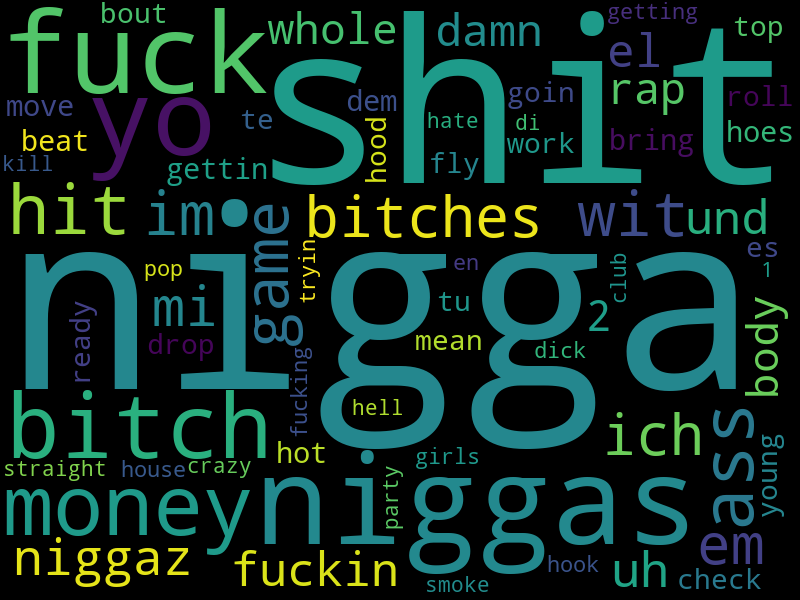
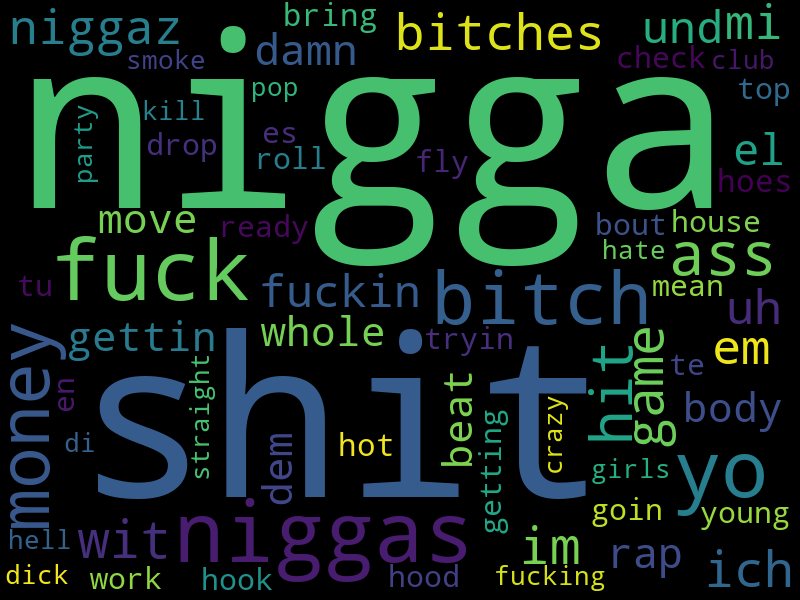
:snail: modification of wordclouds and freq analysis function to check for alphabetical instead of alphanumeric

diff --git a/src/freq_main.py b/src/freq_main.py
@@ -7,8 +7,8 @@
 
 # imports and data structures
 import os
-from freq.freqAnalysis import freqAnalyzer as fa
-from freq.freqAnalysis import freqVisual as fv
+from freq.freqAnalysis import freqAnalyzer
+from freq.freqAnalysis import freqVisual
 from db import database
 
 # initiliaze db in repo
@@ -33,7 +33,7 @@ for i in genres:
 ####################################################################
 
 # this process will tokenize lyrics and save their corresponding files as csvs
-w = fa.freqAnalyzer.tokenizeLyrics(genresLyrics, genres)
+w = freqAnalyzer.tokenizeLyrics(genresLyrics, genres)
 
 # call out freq class and clean lyrics
 w.cleanLyrics()
@@ -43,7 +43,7 @@ w.cleanLyrics()
 #####################################################################
     
 # redefine file and find unique words, using variable from above chunk
-s = fv.freqVisual(w.filesClean())
+s = freqVisual(w.filesClean())
 words = s.uniqueWords(limit = 200)
 i = 0
 
@@ -51,7 +51,7 @@ i = 0
 for g in genres:
     s.makeCloud(words[i], "cloud" + g + "Plain", None, width = 800, height = 600)
     i += 1
-
+    
 #####################################################################
 # extra example for beyonce WordCloud
 #####################################################################
@@ -66,8 +66,8 @@ cur.execute(query)
 test.append(cur.fetchall())
 test = [[l[0] for l in item] for item in test]
 
-w = fa.freqAnalyzer.tokenizeLyrics(test, ["beyonce"])
+w = freqAnalyzer.tokenizeLyrics(test, ["beyonce"])
 w.cleanLyrics()
-s = fv.freqVisual(w.filesClean)
+s = freqVisual(w.filesClean)
 words = s.uniqueWords(limit = 50)
 s.makeCloud(words[0], "cloudbeyoncePlain", None, width = 800, height = 600)

diff --git a/src/freq/freqAnalysis.py b/src/freq/freqAnalysis.py
@@ -38,8 +38,8 @@ class freqAnalyzer(object):
         
     def _cleanProcess(self, ls):
         
-        # check alphanumeric, remove stop-words and lemmatize
-        res = [word.lower() for songs in ls for word in songs if word.lower().isalnum() and word.lower() not in stopwords.words('english') and word.lower() not in ["chorus", "verse"]] 
+        # check alphabetic, remove stop-words and lemmatize
+        res = [word.lower() for songs in ls for word in songs if word.lower().isalpha()  and word.lower() not in stopwords.words('english') and word.lower() not in ["chorus", "verse"]] 
         return res
         
     def cleanLyrics(self, ceiling = 50000, chunksize = 10):
